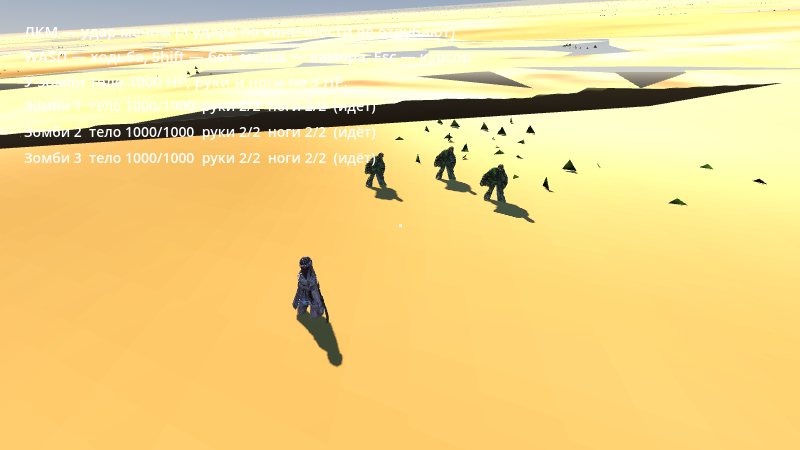
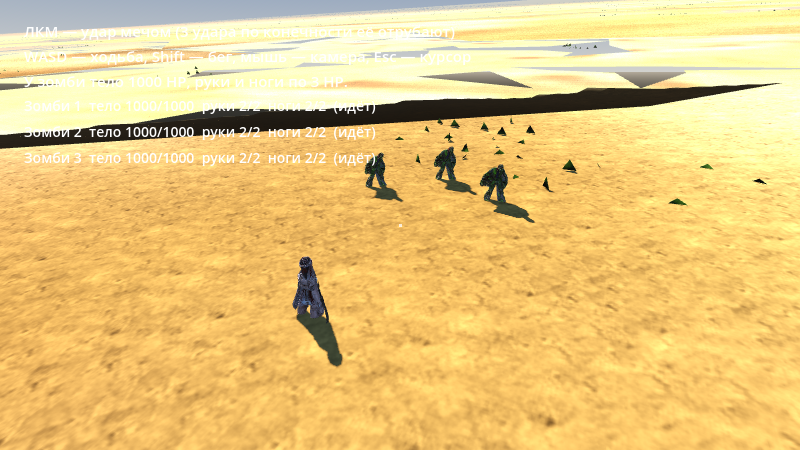
ci: отчёт проверки движком [skip ci]

diff --git a/ci/report.md b/ci/report.md
@@ -89,7 +89,7 @@ PASS  zombie.glb «Walk»: 22 дорожек, битых 0, длина 1.20 с
 PASS  zombie.glb «WalkNoArms»: 22 дорожек, битых 0, длина 1.20 с
 
 === главная сцена
-остров: материалы (60 поверхностей), вершинные цвета включены
+остров: земля на атласе (1 поверхностей), растительность с вершинными цветами (59)
 заплатка земли: 7552 клеток по 1 м (закрывает дыры меша)
 PASS  medic.glb: «MxWalk» двигает кисть на 17.5 см
   бёдра в мировых координатах: (0.022071, 0.483637, -0.006296)
@@ -99,9 +99,12 @@ PASS  игроков: 1
 PASS  зомби: 3
 PASS  остров на сцене: узлов-мешей 60
 PASS  остров: земля на родном атласе 4096px
+PASS  остров: земля на шейдере ground.gdshader
+PASS  шейдер земли получает атлас
+PASS  шейдер земли получает зерно
 PASS  заплатка земли над дырами: треугольников 15104
 PASS  заплатка только по дырам, а не под всей ареной
-PASS  заплатка земли использует атлас острова
+PASS  заплатка земли рисуется тем же шейдером с атласом
 PASS  карта высот загружена в float32 (высота в метрах)
 PASS  высота арены из карты (1405.00) совпадает с arena.json (1405.00)
 PASS  игрок: скелет и AnimationPlayer
@@ -124,7 +127,7 @@ PASS  зомби: тело держит удар (осталось 966 HP)
 ERROR: Parameter "m" is null.
    at: mesh_get_surface_count (servers/rendering/dummy/storage/mesh_storage.h:120)
 
-=== итог: 83 проверок, 0 провалов
+=== итог: 86 проверок, 0 провалов
 WARNING: ObjectDB instances leaked at exit (run with --verbose for details).
      at: cleanup (core/object/object.cpp:2284)
 exit=0
@@ -149,7 +152,7 @@ ERROR: Condition "status < 0" is true. Returning: ERR_CANT_OPEN
 WARNING: All audio drivers failed, falling back to the dummy driver.
      at: initialize (servers/audio_server.cpp:247)
 
-остров: материалы (60 поверхностей), вершинные цвета включены
+остров: земля на атласе (1 поверхностей), растительность с вершинными цветами (59)
 заплатка земли: 7552 клеток по 1 м (закрывает дыры меша)
 внешние клипы: +7 из res://models/medic_clips.glb
 внешние клипы: +7 из res://models/zombie_clips.glb
